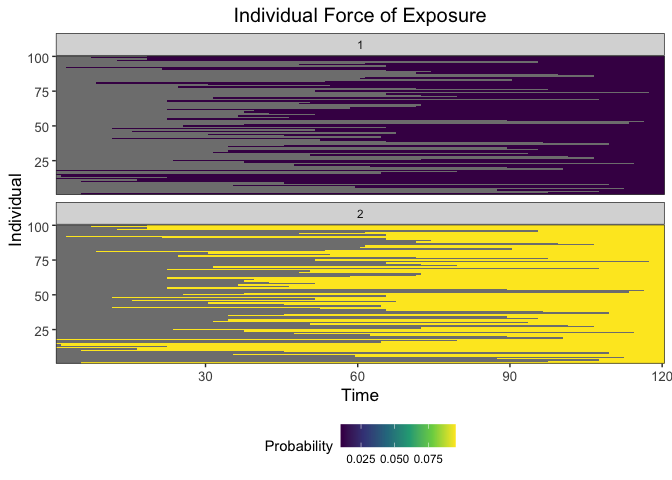
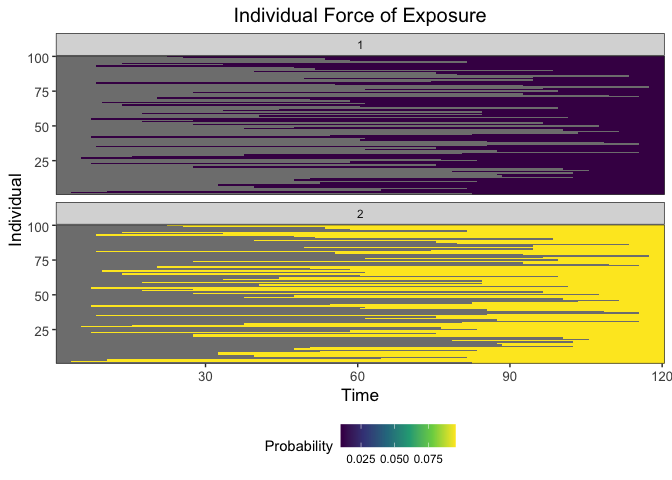
Removed devtools call from vignette RMDs

Changed region(s): [[0.0938, 0.4688, 0.9688, 0.7812], [0.0938, 0.0938, 0.9688, 0.4062]]

diff --git a/README.md b/README.md
@@ -3,6 +3,7 @@ README
 
 <!-- badges: start -->
 [![R-CMD-check](https://github.com/AMenezes97/serosim/actions/workflows/R-CMD-check.yaml/badge.svg)](https://github.com/AMenezes97/serosim/actions/workflows/R-CMD-check.yaml)
+[![CodeFactor](https://www.codefactor.io/repository/github/amenezes97/serosim/badge)](https://www.codefactor.io/repository/github/amenezes97/serosim)
 <!-- badges: end -->
 
 # Motivation
@@ -44,10 +45,10 @@ devtools::install_github("AMenezes97/serosim")
 
     ## 
     ## ── R CMD build ─────────────────────────────────────────────────────────────────
-    ##      checking for file ‘/private/var/folders/q8/2nt_5tqj7yj_rmmxlknjr2sm0000gr/T/RtmpFC4WGo/remotes14a0510b206c/AMenezes97-serosim-f8bf76c/DESCRIPTION’ ...  ✔  checking for file ‘/private/var/folders/q8/2nt_5tqj7yj_rmmxlknjr2sm0000gr/T/RtmpFC4WGo/remotes14a0510b206c/AMenezes97-serosim-f8bf76c/DESCRIPTION’ (474ms)
-    ##   ─  preparing ‘serosim’: (1s)
+    ##      checking for file ‘/private/var/folders/q8/2nt_5tqj7yj_rmmxlknjr2sm0000gr/T/RtmpawPiQX/remotes163b52fb3f2d/AMenezes97-serosim-892f8cc/DESCRIPTION’ ...  ✔  checking for file ‘/private/var/folders/q8/2nt_5tqj7yj_rmmxlknjr2sm0000gr/T/RtmpawPiQX/remotes163b52fb3f2d/AMenezes97-serosim-892f8cc/DESCRIPTION’ (341ms)
+    ##   ─  preparing ‘serosim’: (804ms)
     ##      checking DESCRIPTION meta-information ...  ✔  checking DESCRIPTION meta-information
-    ##   ─  checking for LF line-endings in source and make files and shell scripts (1.2s)
+    ##   ─  checking for LF line-endings in source and make files and shell scripts (844ms)
     ##   ─  checking for empty or unneeded directories
     ##   ─  building ‘serosim_0.0.0.9000.tar.gz’
     ##      
@@ -106,11 +107,11 @@ summary(demography)
 ```
 
     ##        i              birth           removal        times       
-    ##  Min.   :  1.00   Min.   :  1.00   Min.   :121   Min.   :  1.00  
-    ##  1st Qu.: 25.75   1st Qu.: 31.00   1st Qu.:121   1st Qu.: 30.75  
-    ##  Median : 50.50   Median : 53.50   Median :121   Median : 60.50  
-    ##  Mean   : 50.50   Mean   : 56.74   Mean   :121   Mean   : 60.50  
-    ##  3rd Qu.: 75.25   3rd Qu.: 82.00   3rd Qu.:121   3rd Qu.: 90.25  
+    ##  Min.   :  1.00   Min.   :  4.00   Min.   :121   Min.   :  1.00  
+    ##  1st Qu.: 25.75   1st Qu.: 33.75   1st Qu.:121   1st Qu.: 30.75  
+    ##  Median : 50.50   Median : 62.00   Median :121   Median : 60.50  
+    ##  Mean   : 50.50   Mean   : 62.59   Mean   :121   Mean   : 60.50  
+    ##  3rd Qu.: 75.25   3rd Qu.: 90.00   3rd Qu.:121   3rd Qu.: 90.25  
     ##  Max.   :100.00   Max.   :118.00   Max.   :121   Max.   :120.00
 
 # 1.3 Exposure to biomarker mapping
@@ -406,12 +407,12 @@ head(res$kinetics_parameters)
     ## # A tibble: 6 × 7
     ##       i     t     x     b name    value realized_value
     ##   <int> <dbl> <dbl> <dbl> <chr>   <dbl>          <dbl>
-    ## 1     1    30     2     1 boost 1.88           1.88   
-    ## 2     1    30     2     1 wane  0.00106        0.00106
-    ## 3     1   107     1     1 boost 2.93           2.93   
-    ## 4     1   107     1     1 wane  0.00392        0.00392
-    ## 5     2   116     2     1 boost 0.883          0.883  
-    ## 6     2   116     2     1 wane  0.00130        0.00130
+    ## 1     1    92     2     1 boost 2.18           2.18   
+    ## 2     1    92     2     1 wane  0.00120        0.00120
+    ## 3     2    15     2     1 boost 2.19           2.19   
+    ## 4     2    15     2     1 wane  0.00241        0.00241
+    ## 5     3    28     2     1 boost 1.10           1.10   
+    ## 6     3    28     2     1 wane  0.00203        0.00203
 
 ``` r
 ## Combine plots as seen in paper 
